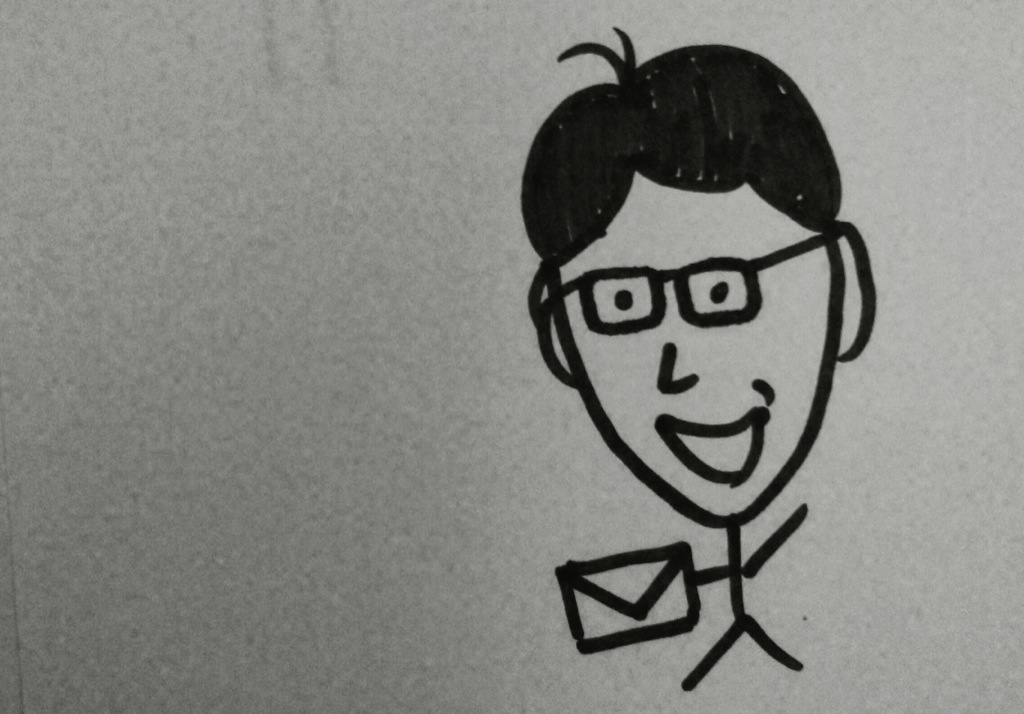
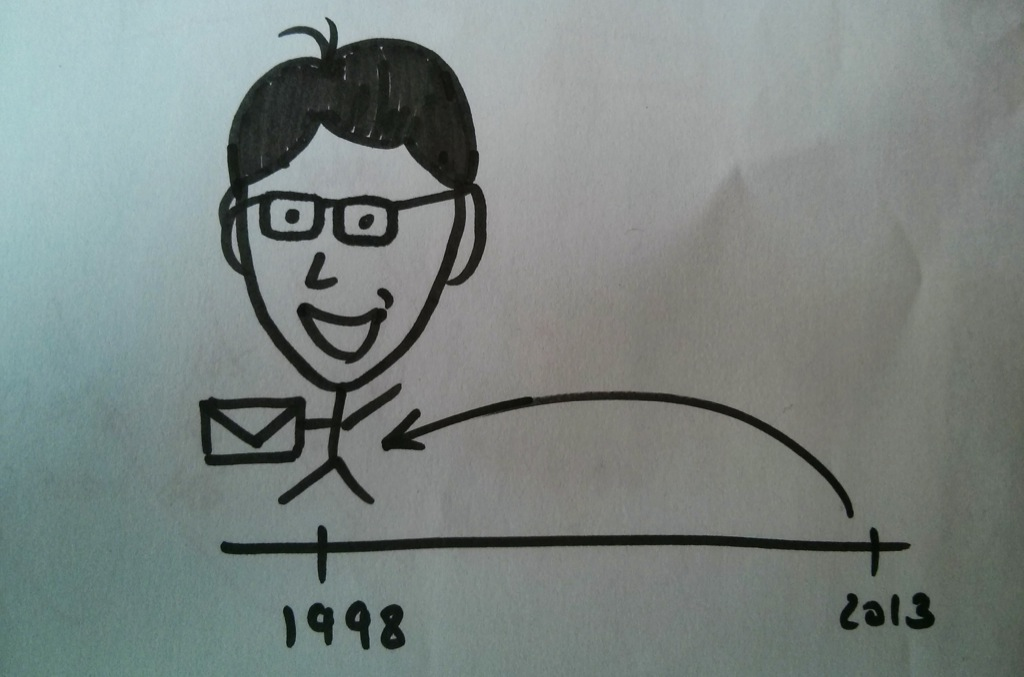
update

diff --git a/drafts.md b/drafts.md
@@ -1,3 +1,7 @@
+# 30 day challenge lessons
+* writing a post a day helps you get better at shipping
+
+
 I just attended a presentation by one of my colleagues. His figures were polished, the illustrations were clear, the story was easy to follow. But he was presenting a paper so the rate of new concepts per minute was through the roof. It is really challenging to present all this information in a short period of time in a way that the audience can understand, especially if they are not experts in your field. Every minute you spend improving your figures pays off. Every time I run across an awkward figure, I feel like I hit a speed bump and the time I spend dwelling on what it says on that long y-axis label is time spent not paying attention to what the speaker is saying.
 
 

diff --git a/_posts/2013-09-15-advice-to-me-from-the-past.md b/_posts/2013-09-15-advice-to-me-from-the-past.md
@@ -7,6 +7,7 @@ tags: advice
 ---
 {% include JB/setup %}
 
+![Me from the past]({{ site.url }}/assets/me_from_the_past.jpg)
 
 Dear me from the past,
 
